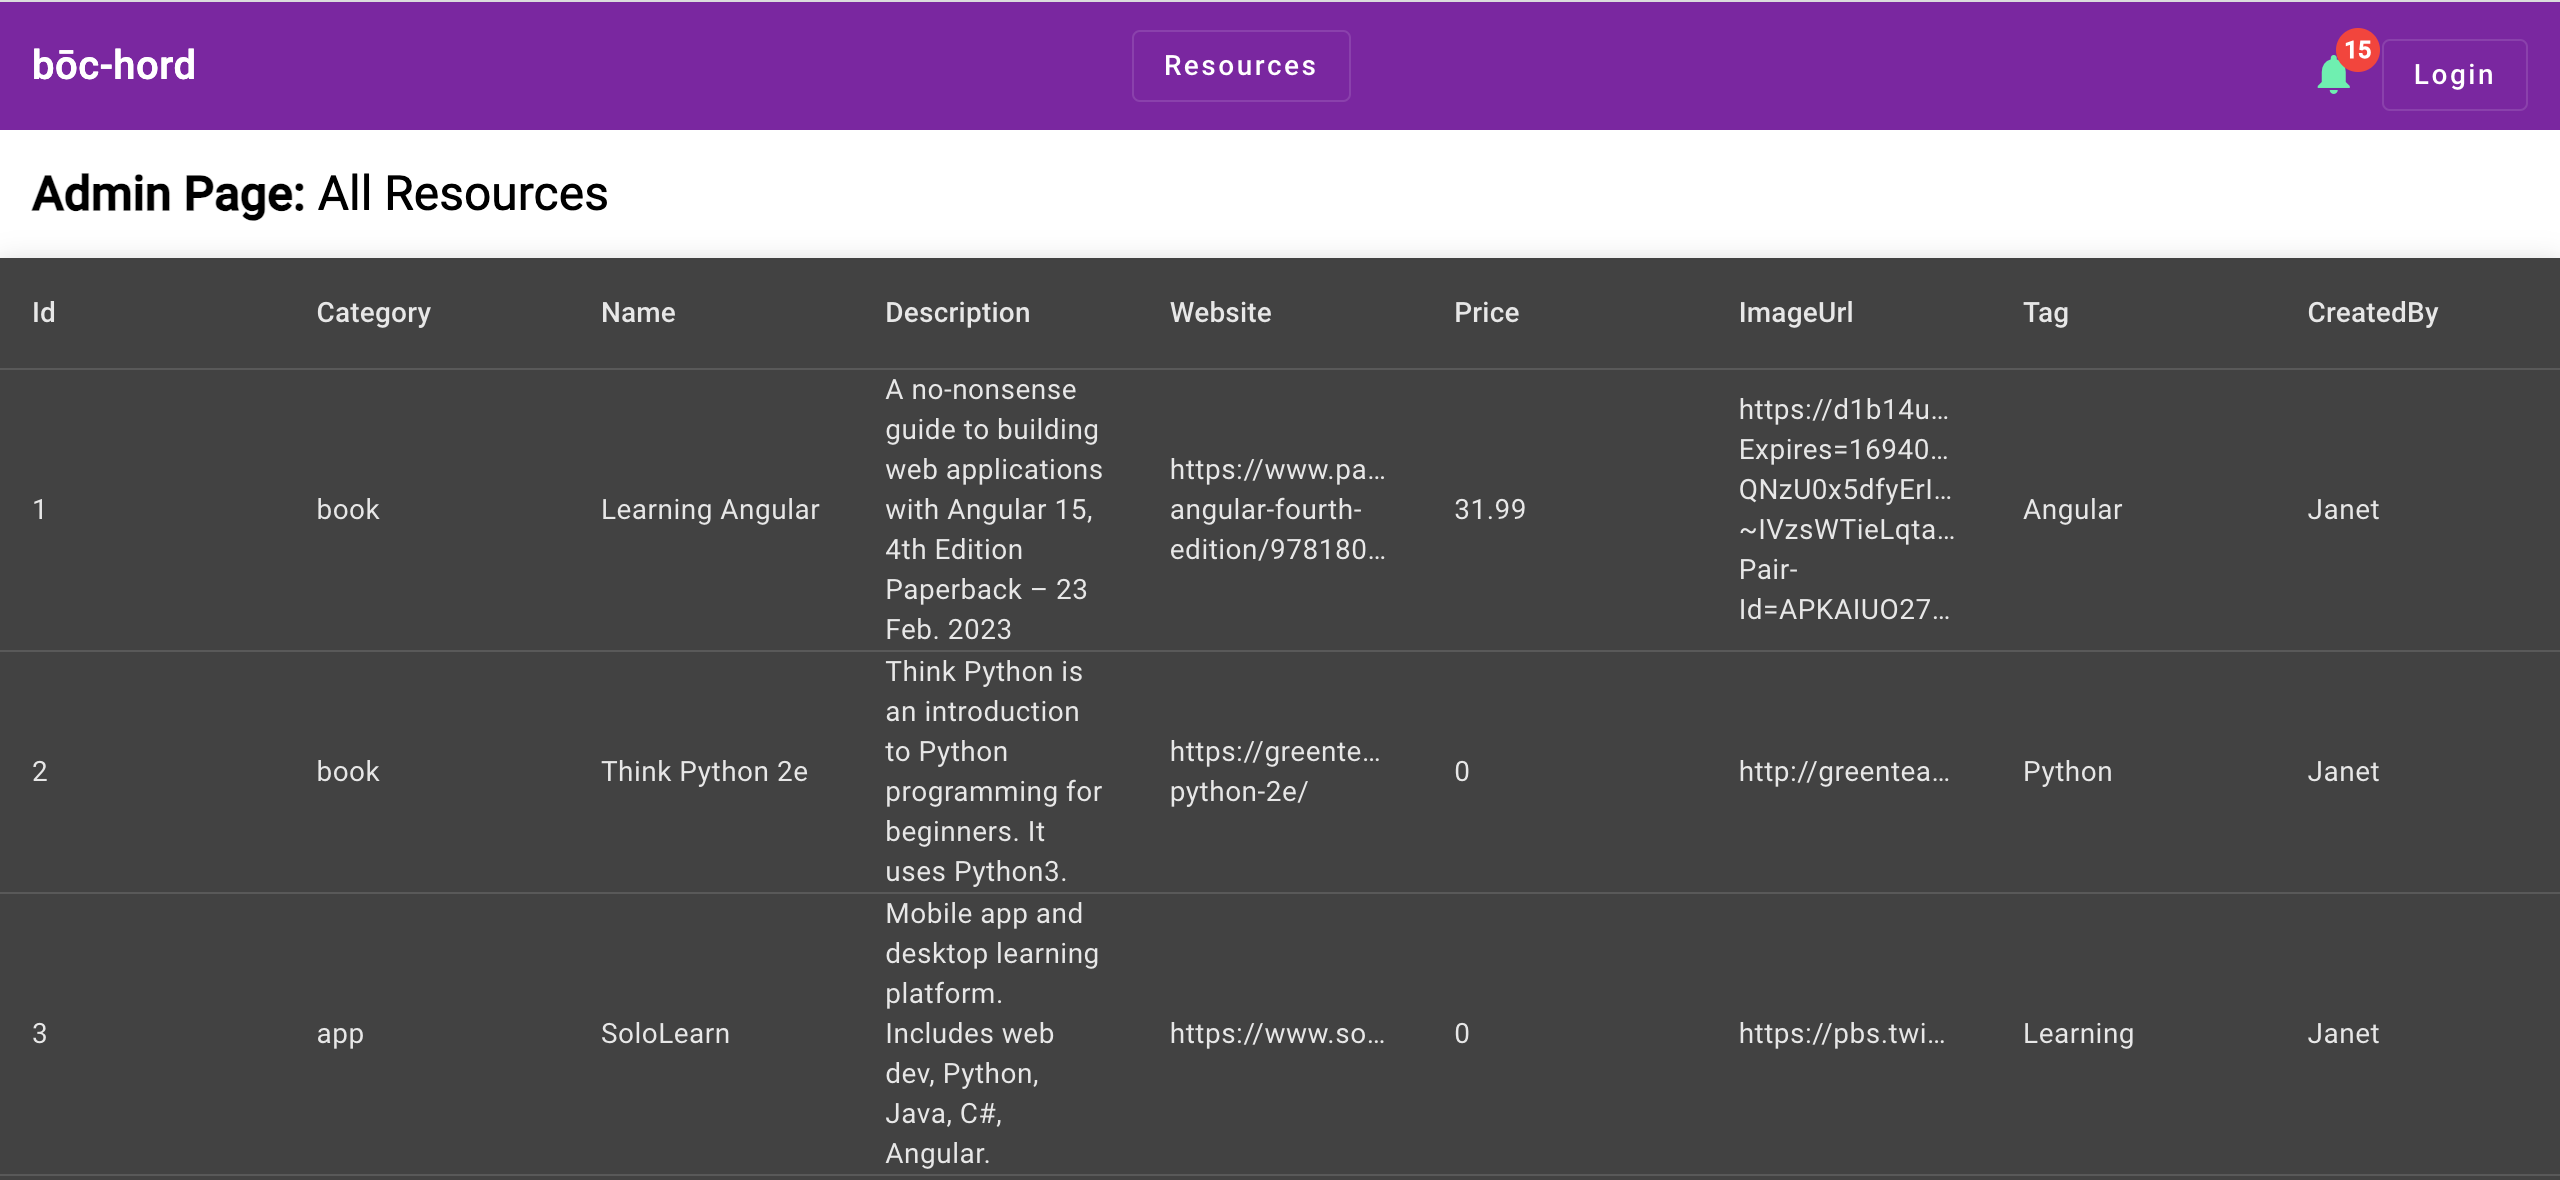
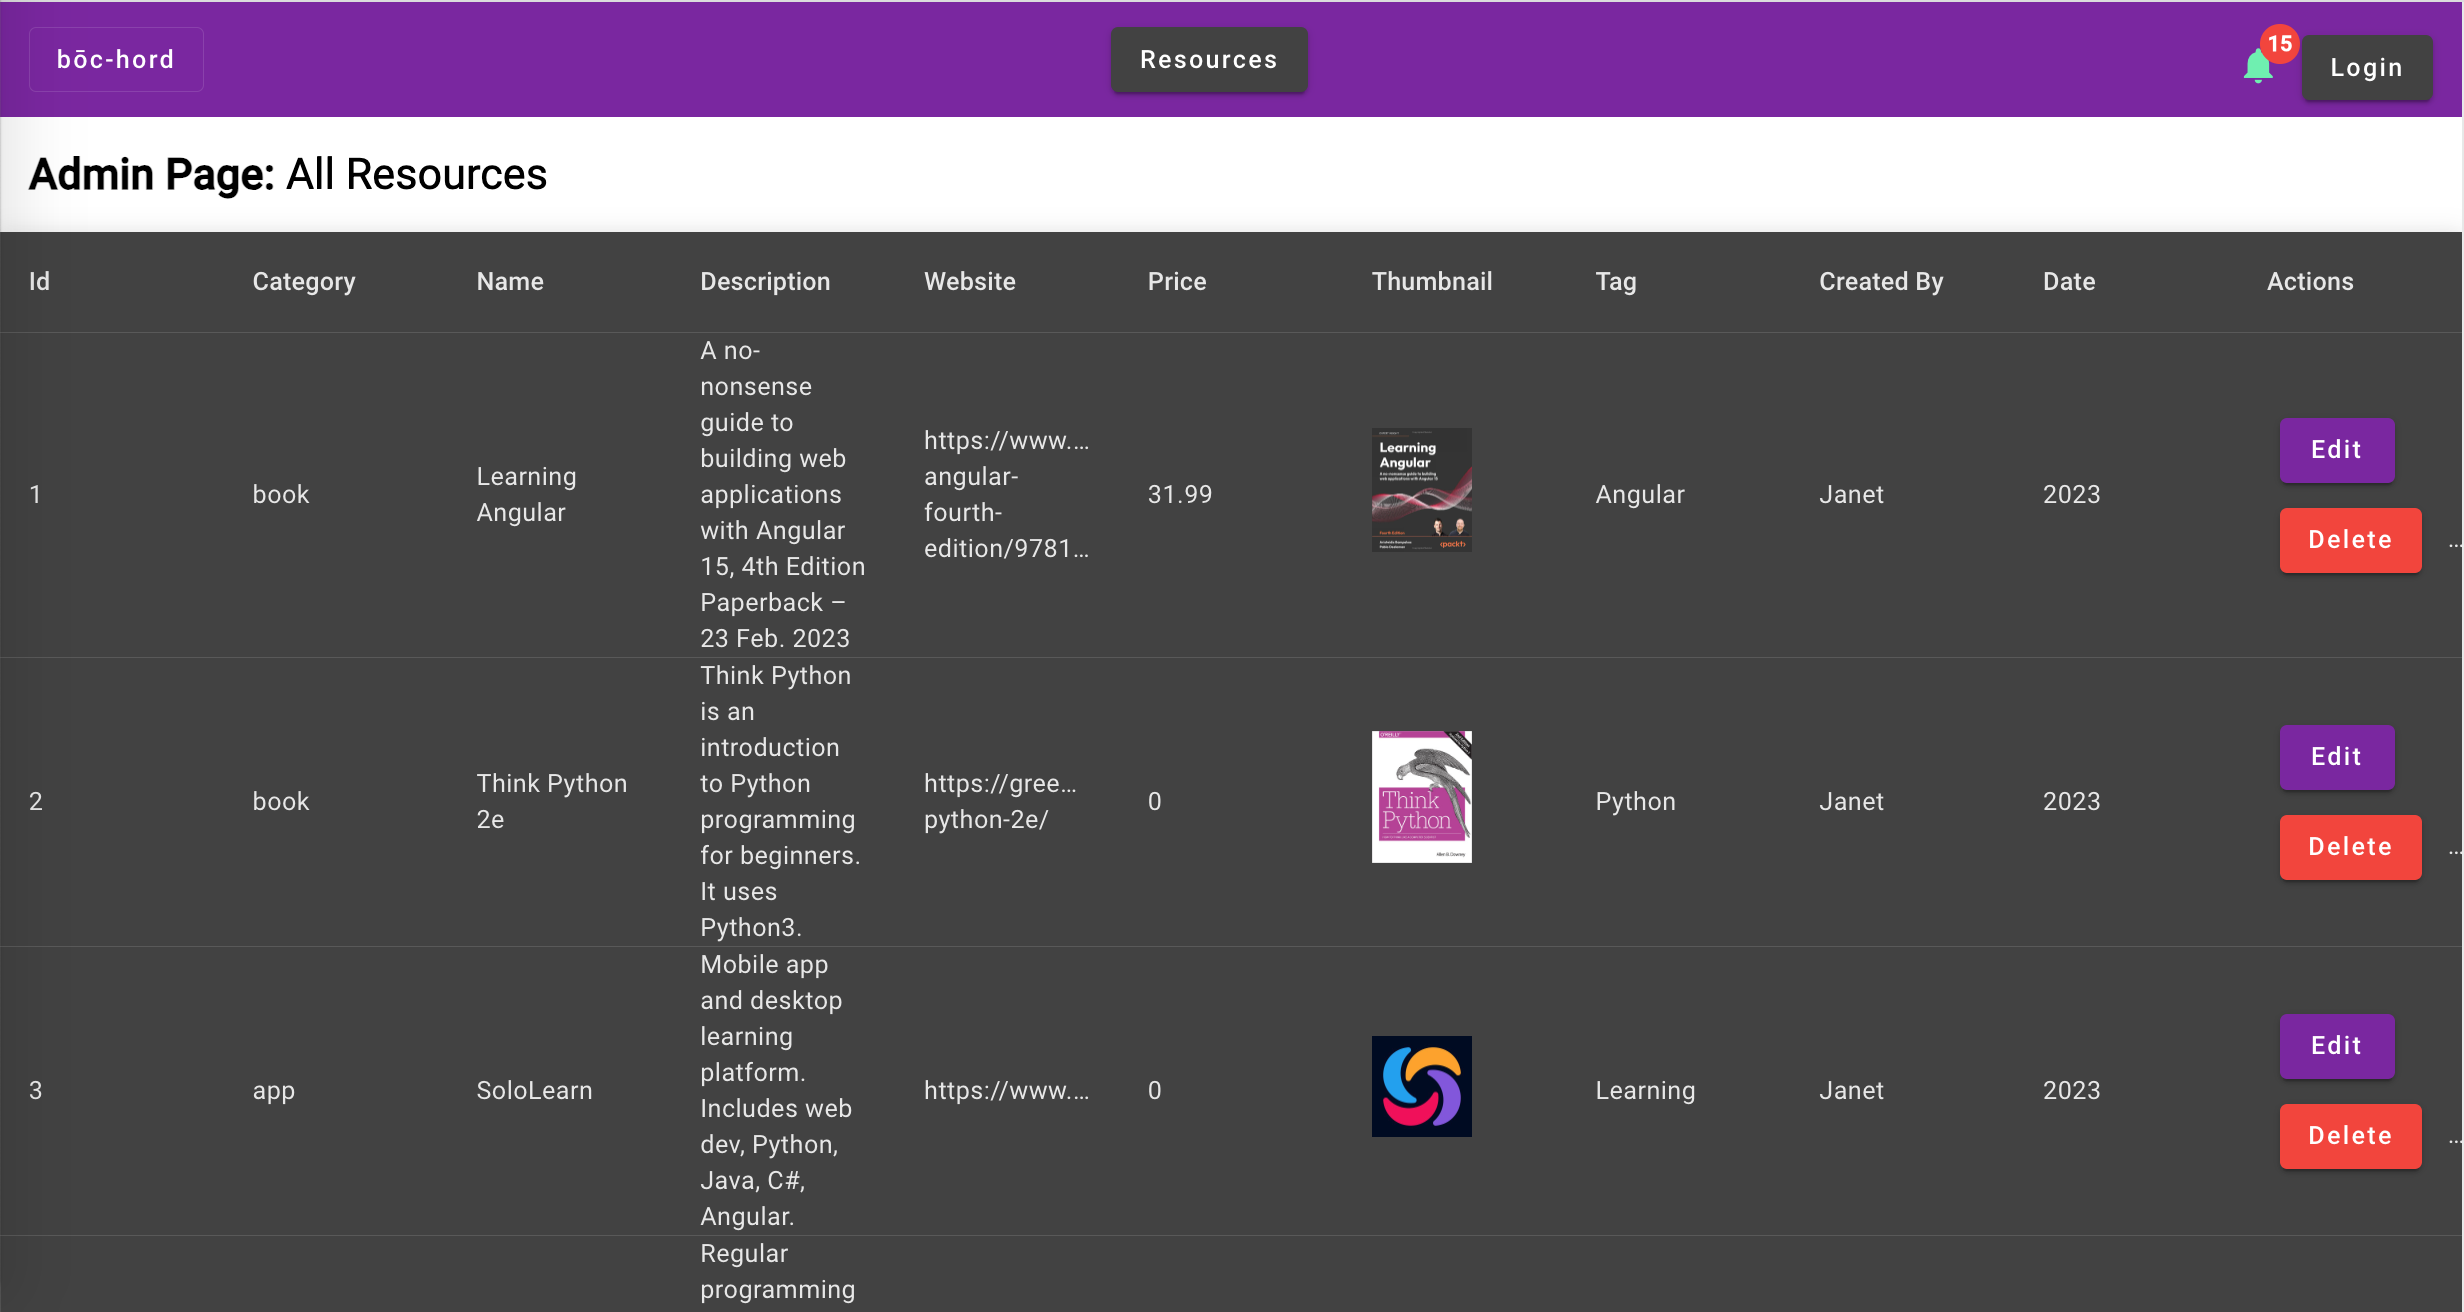
Update toolbar button colours and tidy up the admin resources table

diff --git a/src/app/app.component.html b/src/app/app.component.html
@@ -1,6 +1,6 @@
 <mat-toolbar color="primary" class="flex justify-content-between">
   <a routerLink="home" mat-stroked-button>bōc-hord</a>
-  <a routerLink="resources" mat-stroked-button>Resources</a>
+  <a routerLink="resources" mat-raised-button>Resources</a>
 
   <div class="demo-section">
     
@@ -16,7 +16,7 @@
       <button mat-menu-item>New video added</button>
     </mat-menu>
 
-    <a routerLink="login" mat-stroked-button>Login</a>
+    <a routerLink="login" mat-raised-button>Login</a>
   </div>
 
 </mat-toolbar>

diff --git a/src/app/admin-resources/admin-resources.component.scss b/src/app/admin-resources/admin-resources.component.scss
@@ -9,5 +9,9 @@ table {
 
 img {
     width: 4em;
-    height: 4em;
+    height: auto;
+}
+
+button {
+    margin: 0.5em;
 }
